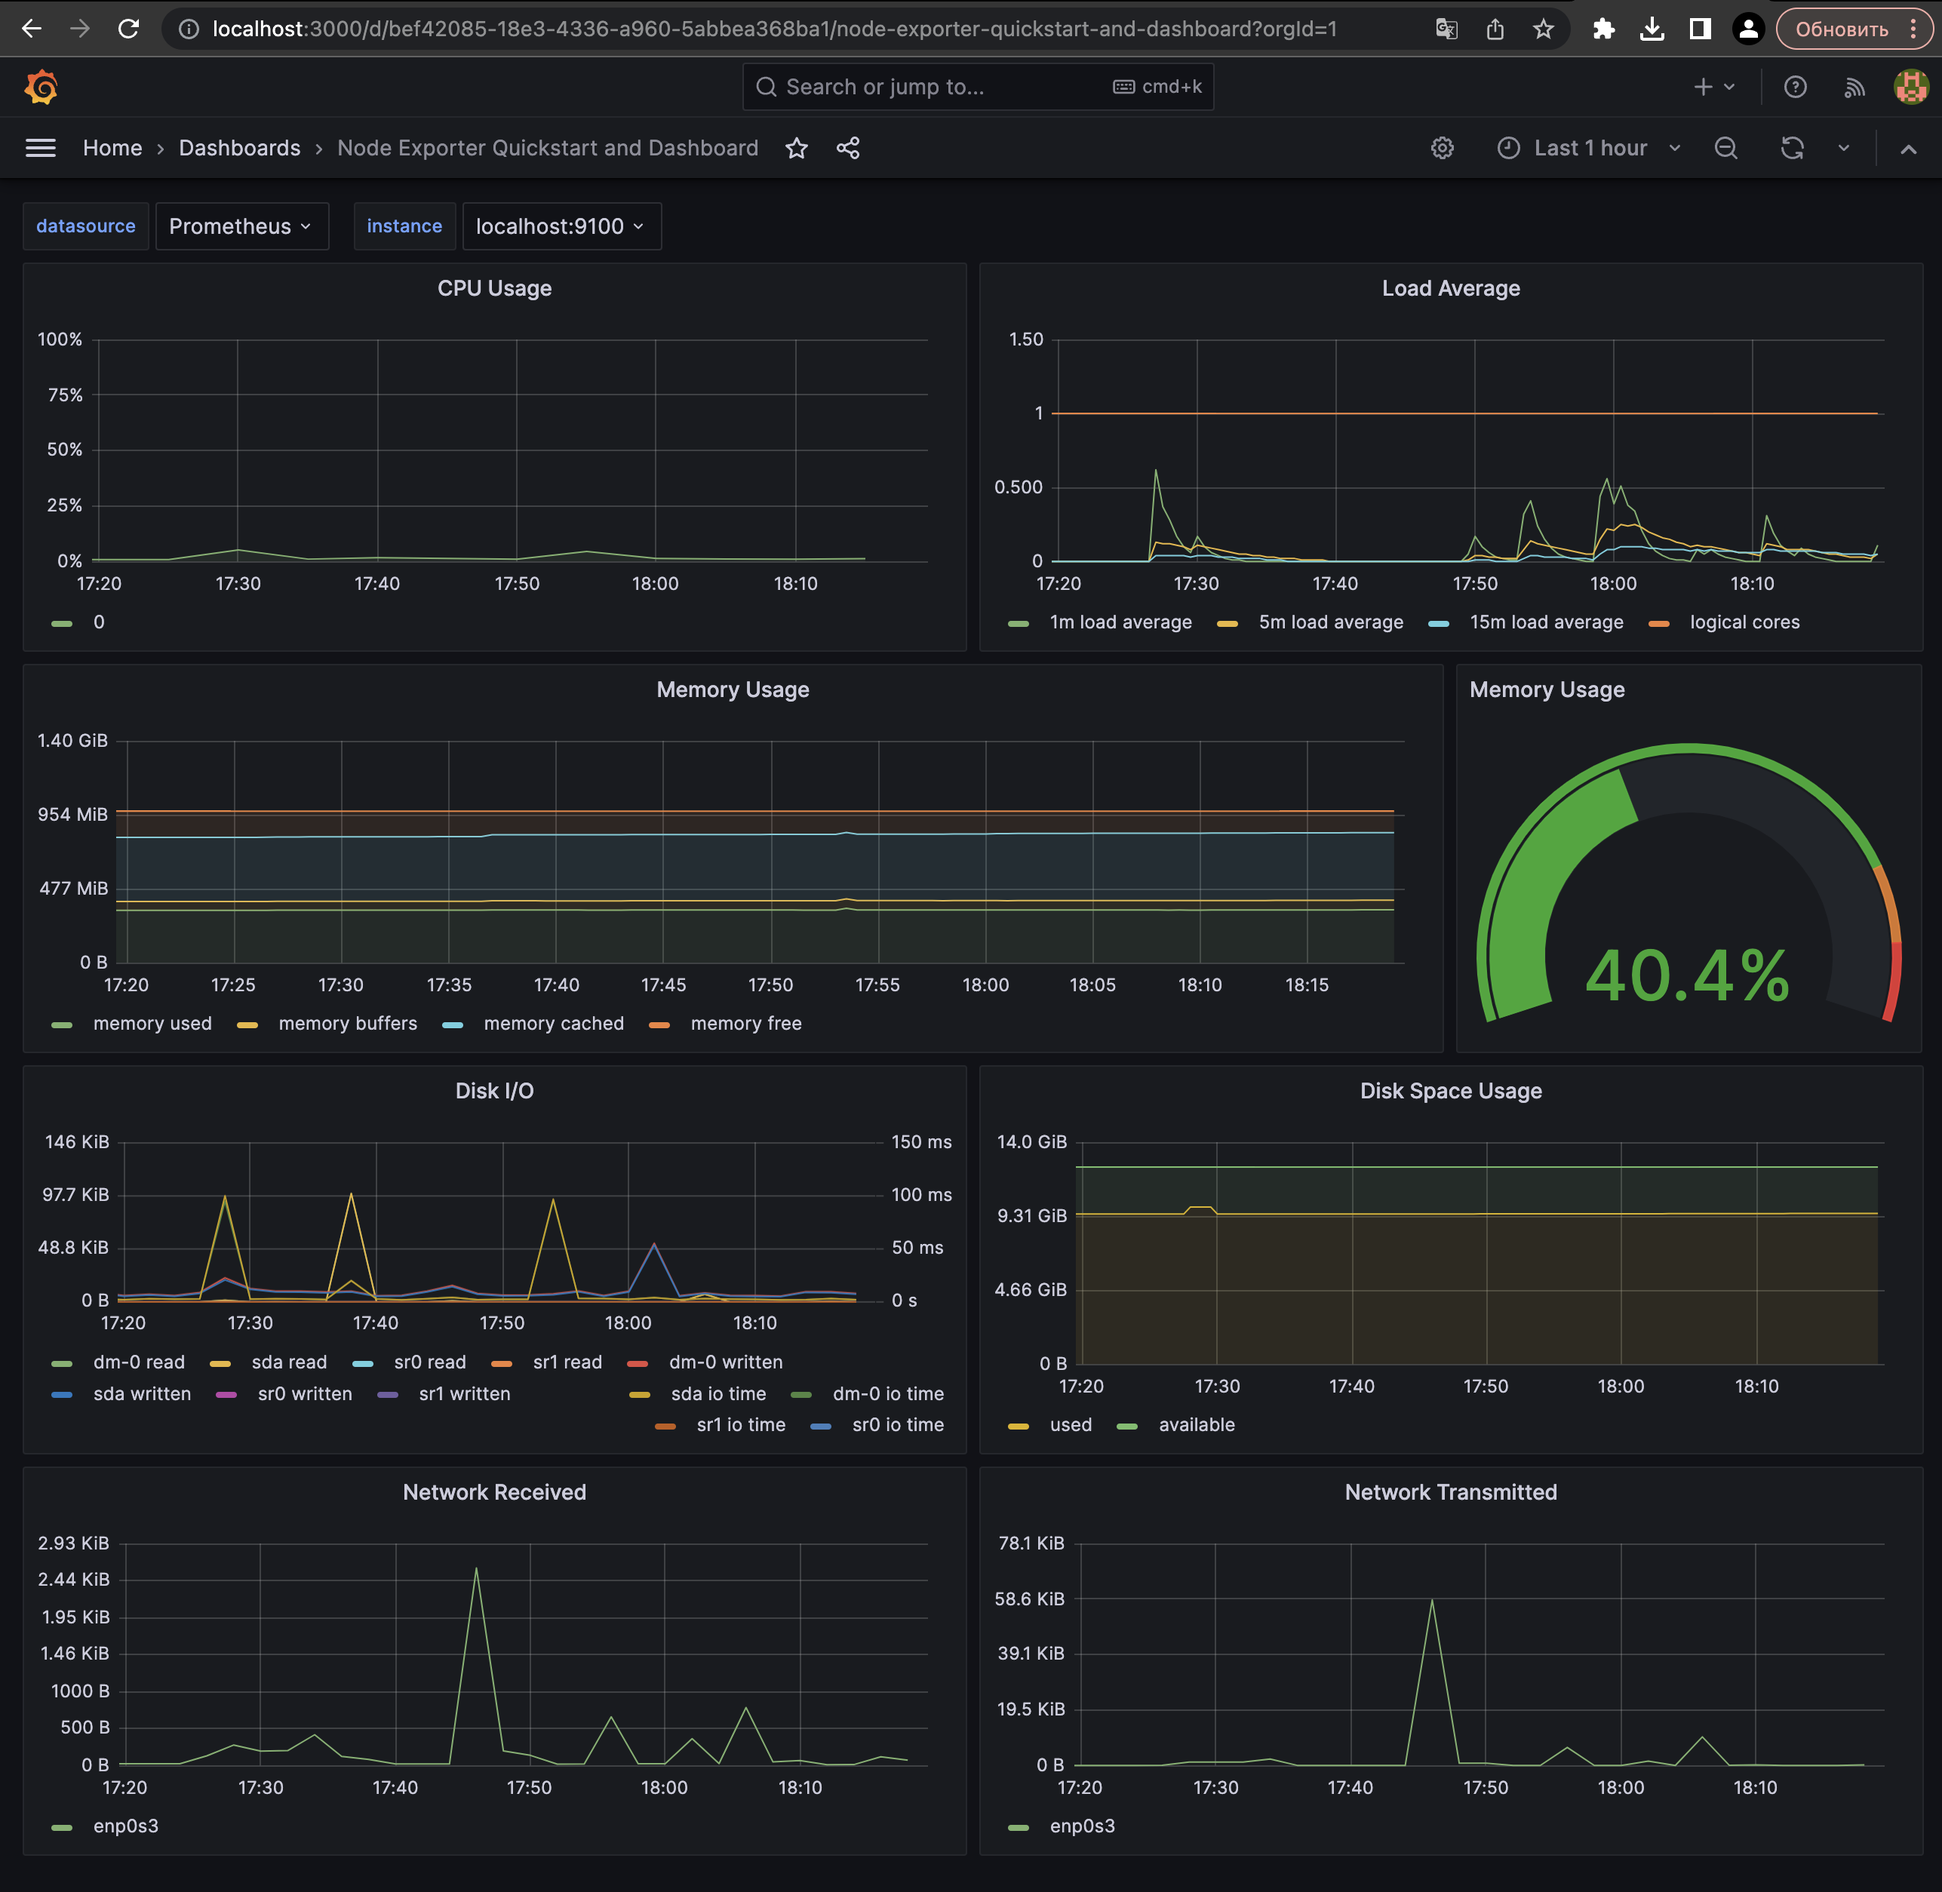
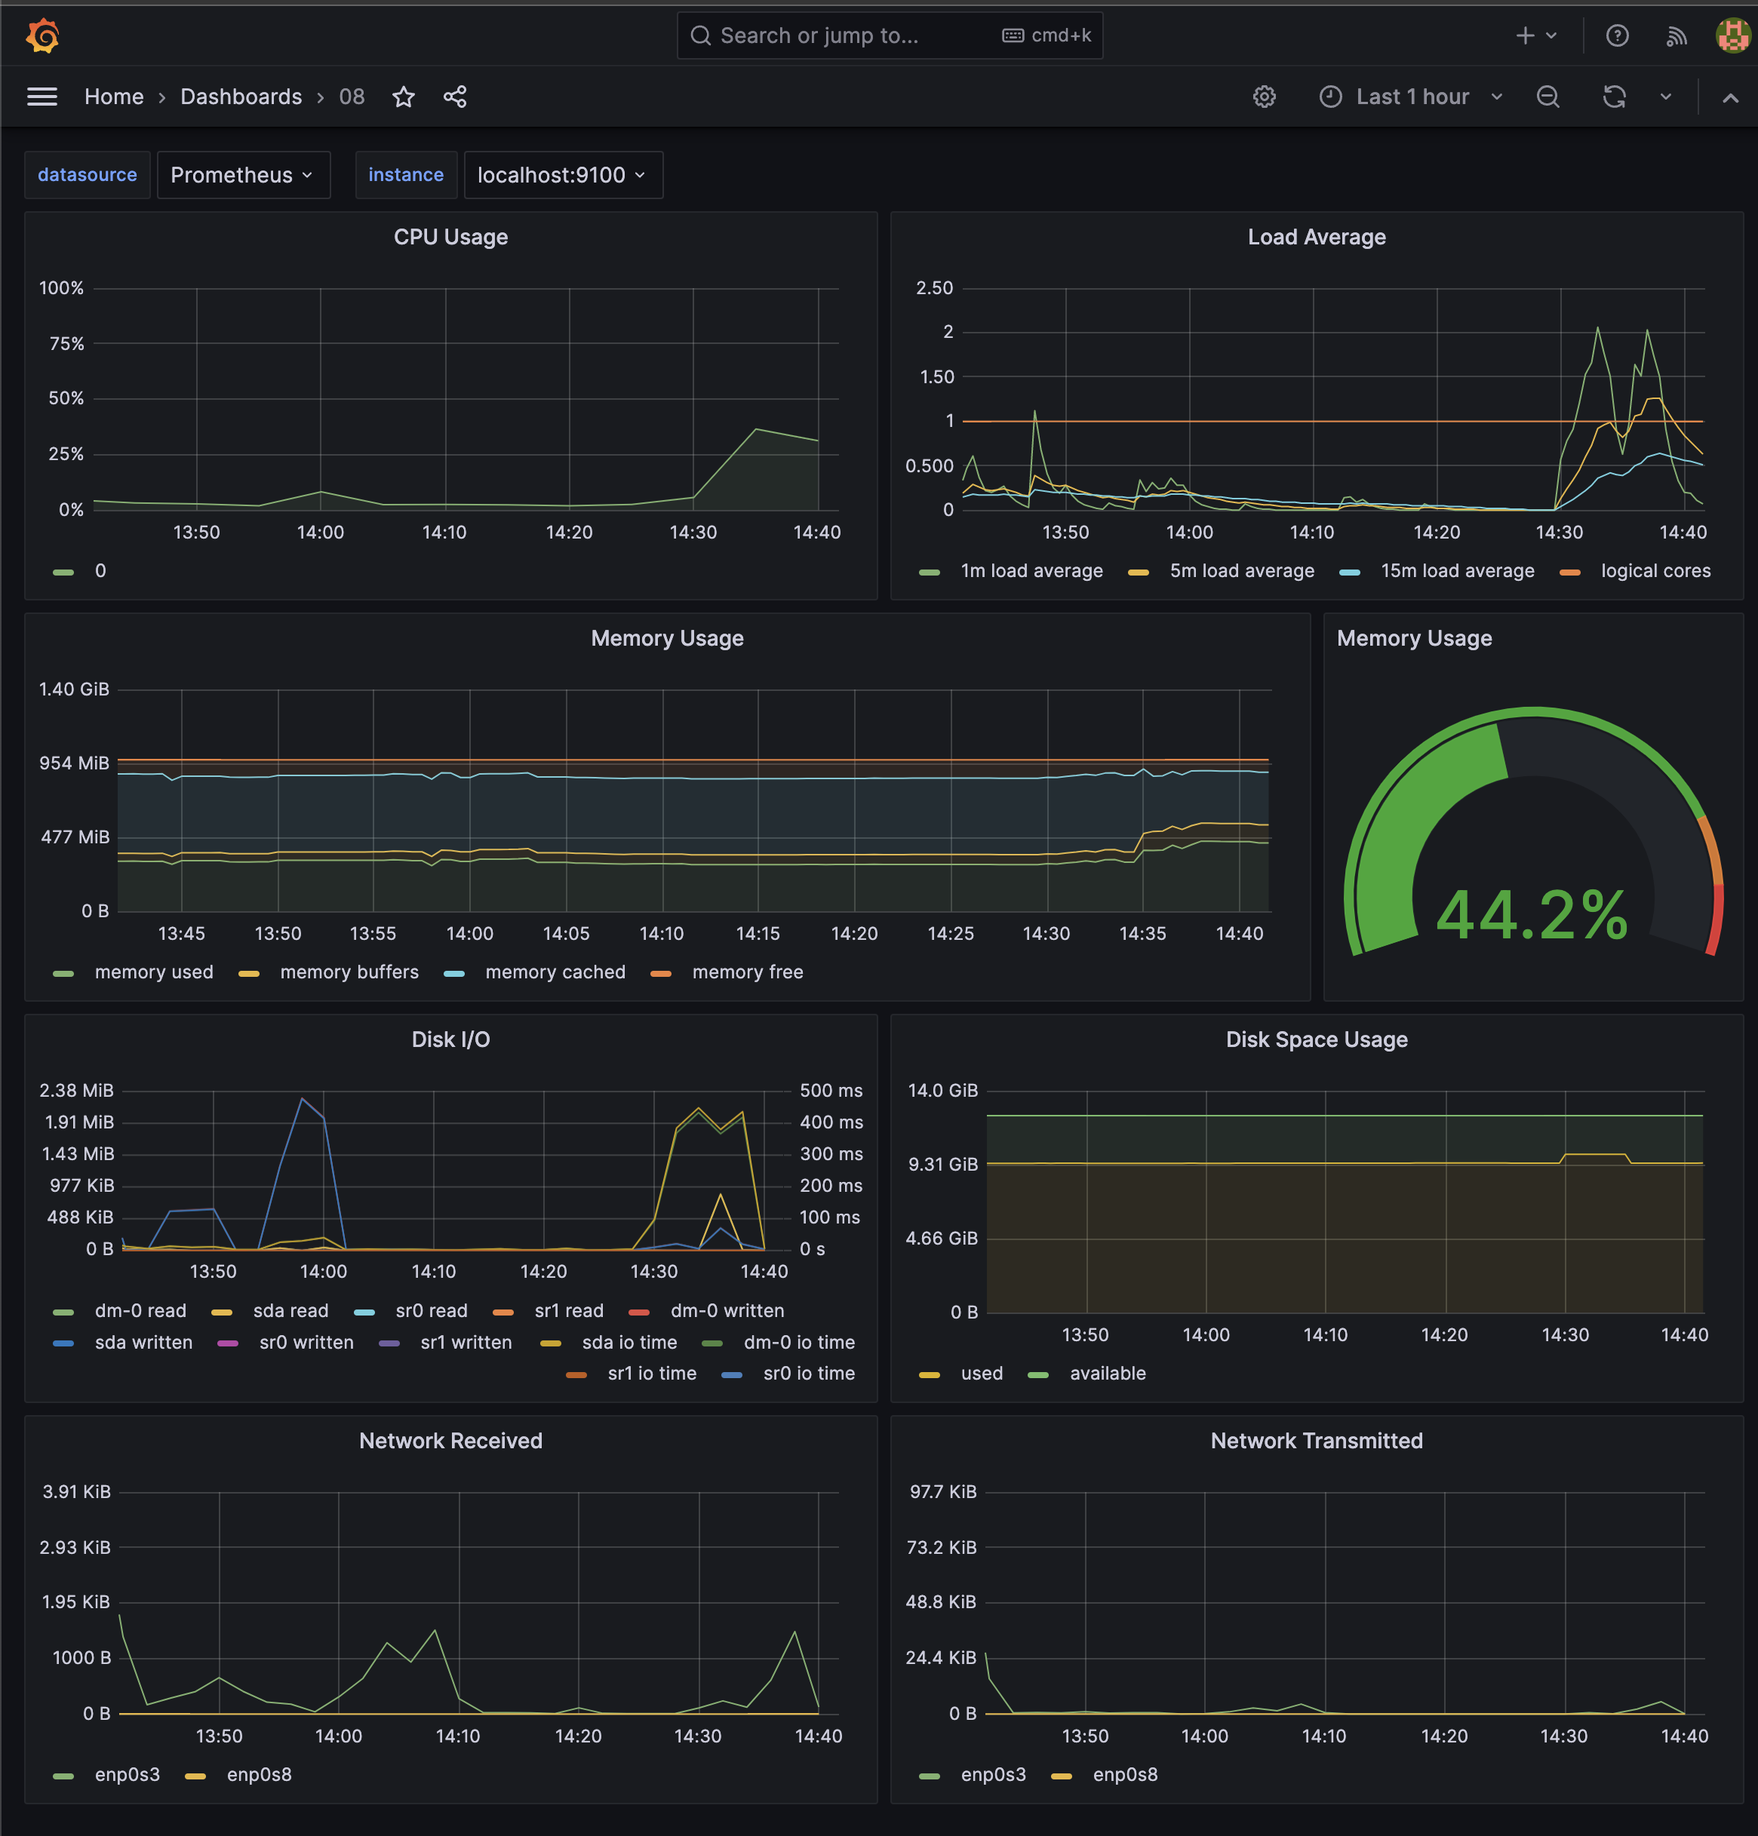
README-update

diff --git a/src/README.md b/src/README.md
@@ -221,7 +221,7 @@ stress -c 2 -i 1 -m 1 --vm-bytes 32M -t 10s
 ![](../misc/images/8_json.png)
 
 
-3. Готово!
+3. Готово! Проделала те же тесты, что в предыдущем таске, результаты на графах.
 
 ![](../misc/images/8.png)
 
